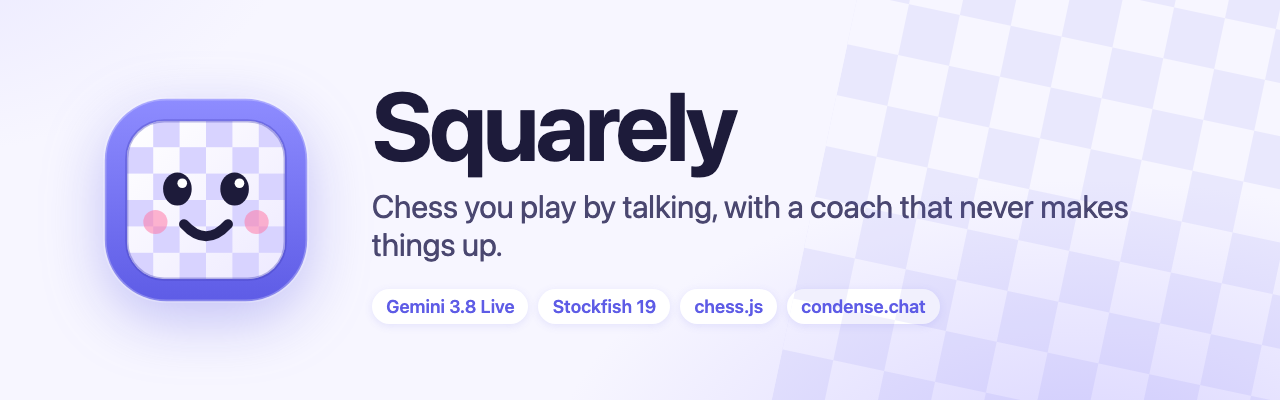
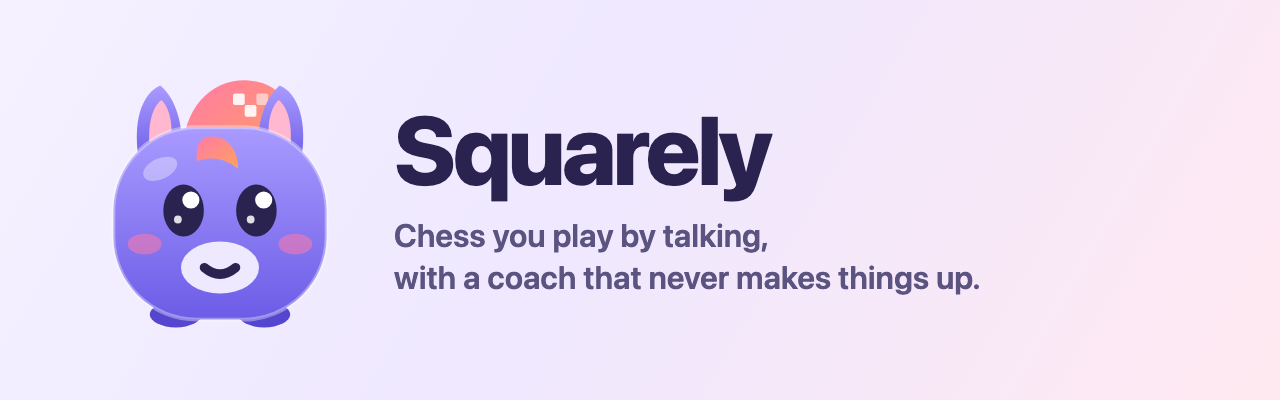
Squarely becomes a cute pony-ish creature
The chessboard-screen device read as a gadget, not a friend. Now it's a squishy
little pony (a nod to the knight) with a coral quiff that hides a tiny chessboard,
big sparkly eyes and rosy cheeks; ears perk up when it listens. Same moods and
voice-driven mouth. Favicon, app icon and README banner regenerated from it.

diff --git a/src/ui/Avatar.tsx b/src/ui/Avatar.tsx
@@ -1,12 +1,10 @@
-// Squarely, the character: a little device with a chessboard screen whose face follows the conversation.
-// mood: idle (blinks), listening (eyes wide), talking (mouth follows the real voice level),
-// thinking (eyes up), worried (tutor stepped in), happy (praise or a win).
+// Squarely, the character: a squishy little pony-ish creature (a friendly nod to the knight) with a
+// punky mane, big shiny eyes and a soft snout. Its face follows the conversation:
+// idle (blinks, floats), listening (eyes wide, ears up), talking (mouth follows the real voice level),
+// thinking (eyes up), worried (tutor stepped in), happy (praise or a win), sleeping.
 import { useId } from 'react'
 
-const INK = '#1d1b3a'
-const CHECKER = Array.from({ length: 36 }, (_, i) => [i % 6, Math.floor(i / 6)])
-  .filter(([c, r]) => (c + r) % 2)
-  .map(([c, r]) => <rect key={`${c}${r}`} x={14 + c * 12} y={14 + r * 12} width="12" height="12" />)
+const INK = '#2a2350'
 
 export type Mood = 'idle' | 'listening' | 'talking' | 'thinking' | 'worried' | 'happy' | 'sleeping'
 
@@ -14,76 +12,99 @@ type Props = { mood: Mood; level?: number; size?: number; className?: string }
 
 export function Avatar({ mood, level = 0, size = 80, className = '' }: Props) {
   const uid = useId().replace(/:/g, '')
-  const grad = `sq-body-${uid}`
-  const clip = `sq-screen-${uid}`
+  const body = `sq-body-${uid}`
+  const mane = `sq-mane-${uid}`
   // Mouth opening follows the voice level while talking.
-  const open = mood === 'talking' ? 3 + Math.min(1, level * 6) * 13 : 0
-  const eyeY = mood === 'thinking' ? 42 : 45
-  const pupilDx = mood === 'thinking' ? 2 : 0
-  const pupilDy = mood === 'thinking' ? -2 : 0
+  const open = mood === 'talking' ? 2.5 + Math.min(1, level * 6) * 9 : 0
+  const eyeY = mood === 'thinking' ? 51 : 54
+  const lookX = mood === 'thinking' ? 2 : 0
+  const lookY = mood === 'thinking' ? -2 : 0
   const eyeR = mood === 'listening' ? 11 : 10
   return (
     <svg className={`avatar mood-${mood} ${className}`} width={size} height={size} viewBox="0 0 100 100" aria-hidden>
       <defs>
-        <linearGradient id={grad} x1="0" y1="0" x2="0" y2="1">
-          <stop offset="0" stopColor="var(--av-top, #8e8cff)" />
-          <stop offset="1" stopColor="var(--av-bottom, #5e5ce6)" />
+        <linearGradient id={body} x1="0" y1="0" x2="0" y2="1">
+          <stop offset="0" stopColor="var(--av-top, #a99bff)" />
+          <stop offset="1" stopColor="var(--av-bottom, #6c5ce7)" />
         </linearGradient>
-        <clipPath id={clip}>
-          <rect x="14" y="14" width="72" height="72" rx="17" />
-        </clipPath>
+        <linearGradient id={mane} x1="0" y1="0" x2="1" y2="1">
+          <stop offset="0" stopColor="#ff7aa8" />
+          <stop offset="1" stopColor="#ffa25c" />
+        </linearGradient>
       </defs>
       <g className="av-body">
-        <rect x="4" y="4" width="92" height="92" rx="28" fill={`url(#${grad})`} />
-        <rect x="4" y="4" width="92" height="92" rx="28" fill="none" stroke="rgba(255,255,255,0.25)" strokeWidth="1.5" />
-        {/* the screen is a chessboard */}
-        <g clipPath={`url(#${clip})`}>
-          <rect x="14" y="14" width="72" height="72" fill="#fbfaff" />
-          <g fill="#d8d3ff">{CHECKER}</g>
+        {/* little feet */}
+        <ellipse cx="33" cy="94" rx="10" ry="5" fill="#5546cf" />
+        <ellipse cx="67" cy="94" rx="10" ry="5" fill="#5546cf" />
+        {/* a swoopy pony quiff behind the head, with a tiny chessboard in it */}
+        <g className="av-mane">
+          <path d="M36 40 C33 16 46 3 61 4 C73 5 80 14 77 27 L75 40 Z" fill={`url(#${mane})`} />
+          <rect x="55" y="9" width="4.5" height="4.5" rx="0.8" fill="#fff" opacity="0.9" />
+          <rect x="59.5" y="13.5" width="4.5" height="4.5" rx="0.8" fill="#fff" opacity="0.9" />
+          <rect x="64" y="9" width="4.5" height="4.5" rx="0.8" fill="#fff" opacity="0.55" />
         </g>
-        <rect x="14" y="14" width="72" height="72" rx="17" fill="none" stroke="rgba(63,60,184,0.35)" strokeWidth="1.5" />
+        {/* ears (pony), pink inside; they perk up when listening */}
+        <g className="av-ears">
+          <path d="M19 36 C16 20 20 9 27 6 C33 11 36 21 35 31 Z" fill={`url(#${body})`} />
+          <path d="M23 30 C22 21 24 14 27.5 11.5 C31 15 32 22 31 28 Z" fill="#ffb8d0" />
+          <path d="M81 36 C84 20 80 9 73 6 C67 11 64 21 65 31 Z" fill={`url(#${body})`} />
+          <path d="M77 30 C78 21 76 14 72.5 11.5 C69 15 68 22 69 28 Z" fill="#ffb8d0" />
+        </g>
+        {/* squishy rounded-square body */}
+        <rect x="9" y="22" width="82" height="74" rx="32" fill={`url(#${body})`} />
+        <rect x="9" y="22" width="82" height="74" rx="32" fill="none" stroke="rgba(255,255,255,0.35)" strokeWidth="1.5" />
+        {/* forelock falling over the forehead */}
+        <path className="av-mane" d="M44 26 C51 24 57 29 57 38 C52 34 47 33 41 35 C41 31 41 28 44 26 Z" fill={`url(#${mane})`} />
+        {/* small soft snout */}
+        <ellipse cx="50" cy="76" rx="15" ry="10" fill="#efe9ff" />
+        {/* shine */}
+        <ellipse cx="27" cy="38" rx="7" ry="4" fill="#fff" opacity="0.35" transform="rotate(-25 27 38)" />
       </g>
       <g className="av-eyes">
         {mood === 'sleeping' || mood === 'happy' ? (
           <>
-            <path d={mood === 'happy' ? 'M30 47 q7 -9 14 0' : 'M30 46 q7 5 14 0'} stroke={INK} strokeWidth="4.5" fill="none" strokeLinecap="round" />
-            <path d={mood === 'happy' ? 'M56 47 q7 -9 14 0' : 'M56 46 q7 5 14 0'} stroke={INK} strokeWidth="4.5" fill="none" strokeLinecap="round" />
+            <path d={mood === 'happy' ? 'M29 56 q7 -9 14 0' : 'M29 54 q7 5 14 0'} stroke={INK} strokeWidth="4" fill="none" strokeLinecap="round" />
+            <path d={mood === 'happy' ? 'M57 56 q7 -9 14 0' : 'M57 54 q7 5 14 0'} stroke={INK} strokeWidth="4" fill="none" strokeLinecap="round" />
           </>
         ) : (
           <>
             <g className="av-eye">
-              <ellipse cx={37 + pupilDx} cy={eyeY + pupilDy} rx={eyeR * 0.65} ry={eyeR * 0.75} fill={INK} />
-              <circle cx={39.2 + pupilDx} cy={eyeY + pupilDy - 2.6} r="2.2" fill="#fff" />
+              <ellipse cx={36 + lookX} cy={eyeY + lookY} rx={eyeR * 0.78} ry={eyeR} fill={INK} />
+              <circle cx={38.8 + lookX} cy={eyeY + lookY - 4} r="3.3" fill="#fff" />
+              <circle cx={33.8 + lookX} cy={eyeY + lookY + 3.5} r="1.5" fill="#fff" opacity="0.85" />
             </g>
             <g className="av-eye">
-              <ellipse cx={63 + pupilDx} cy={eyeY + pupilDy} rx={eyeR * 0.65} ry={eyeR * 0.75} fill={INK} />
-              <circle cx={65.2 + pupilDx} cy={eyeY + pupilDy - 2.6} r="2.2" fill="#fff" />
+              <ellipse cx={64 + lookX} cy={eyeY + lookY} rx={eyeR * 0.78} ry={eyeR} fill={INK} />
+              <circle cx={66.8 + lookX} cy={eyeY + lookY - 4} r="3.3" fill="#fff" />
+              <circle cx={61.8 + lookX} cy={eyeY + lookY + 3.5} r="1.5" fill="#fff" opacity="0.85" />
             </g>
           </>
         )}
         {mood === 'worried' && (
           <>
-            <path d="M28 32 l11 -4" stroke={INK} strokeWidth="3.5" strokeLinecap="round" />
-            <path d="M72 32 l-11 -4" stroke={INK} strokeWidth="3.5" strokeLinecap="round" />
+            <path d="M29 40 l11 -4" stroke={INK} strokeWidth="3.2" strokeLinecap="round" />
+            <path d="M71 40 l-11 -4" stroke={INK} strokeWidth="3.2" strokeLinecap="round" />
           </>
         )}
       </g>
       <g className="av-mouth">
         {mood === 'talking' ? (
-          <rect x={50 - 9} y={66 - open / 2} width="18" height={Math.max(4, open)} rx={Math.min(9, Math.max(2, open / 2))} fill="#1d1b3a" />
+          <rect x={50 - 7} y={78 - open / 2} width="14" height={Math.max(3.5, open)} rx={Math.min(7, Math.max(1.8, open / 2))} fill={INK} />
         ) : mood === 'worried' ? (
-          <path d="M40 72 q10 -8 20 0" stroke="#1d1b3a" strokeWidth="4.5" fill="none" strokeLinecap="round" />
+          <path d="M44 81 q6 -5 12 0" stroke={INK} strokeWidth="3.6" fill="none" strokeLinecap="round" />
         ) : mood === 'thinking' ? (
-          <path d="M43 70 h14" stroke="#1d1b3a" strokeWidth="4.5" strokeLinecap="round" />
+          <path d="M45 79 h10" stroke={INK} strokeWidth="3.6" strokeLinecap="round" />
         ) : mood === 'listening' ? (
-          <ellipse cx="50" cy="69" rx="6" ry="5" fill="#1d1b3a" />
+          <ellipse cx="50" cy="78" rx="4" ry="3.6" fill={INK} />
+        ) : mood === 'happy' ? (
+          <path d="M42 75 q8 10 16 0 z" fill={INK} stroke={INK} strokeWidth="2.5" strokeLinejoin="round" />
         ) : (
-          <path d={mood === 'happy' ? 'M36 64 q14 16 28 0' : 'M40 66 q10 9 20 0'} stroke="#1d1b3a" strokeWidth="4.5" fill={mood === 'happy' ? '#1d1b3a' : 'none'} strokeLinecap="round" />
+          <path d="M44 76 q6 5 12 0" stroke={INK} strokeWidth="3.6" fill="none" strokeLinecap="round" />
         )}
-        {(mood === 'happy' || mood === 'idle' || mood === 'listening') && (
+        {mood !== 'worried' && mood !== 'thinking' && (
           <>
-            <circle cx="27" cy="60" r="5.5" fill="rgba(255,122,168,0.55)" />
-            <circle cx="73" cy="60" r="5.5" fill="rgba(255,122,168,0.55)" />
+            <ellipse cx="21" cy="67" rx="6.5" ry="4" fill="rgba(255,122,168,0.55)" />
+            <ellipse cx="79" cy="67" rx="6.5" ry="4" fill="rgba(255,122,168,0.55)" />
           </>
         )}
       </g>

diff --git a/src/index.css b/src/index.css
@@ -586,3 +586,5 @@ a { color: var(--tint); }
 .sheet-card .scout p { margin: 0 14px; color: var(--label-2); font-size: 14px; }
 .link-btn { border-radius: 10px; padding: 0 10px; }
 .link-btn:focus:not(:focus-visible) { outline: none; }
+.avatar .av-ears { transform-origin: 50% 100%; transition: transform 0.25s ease; }
+.mood-listening .av-ears { transform: translateY(-2.5px) scaleY(1.06); }
